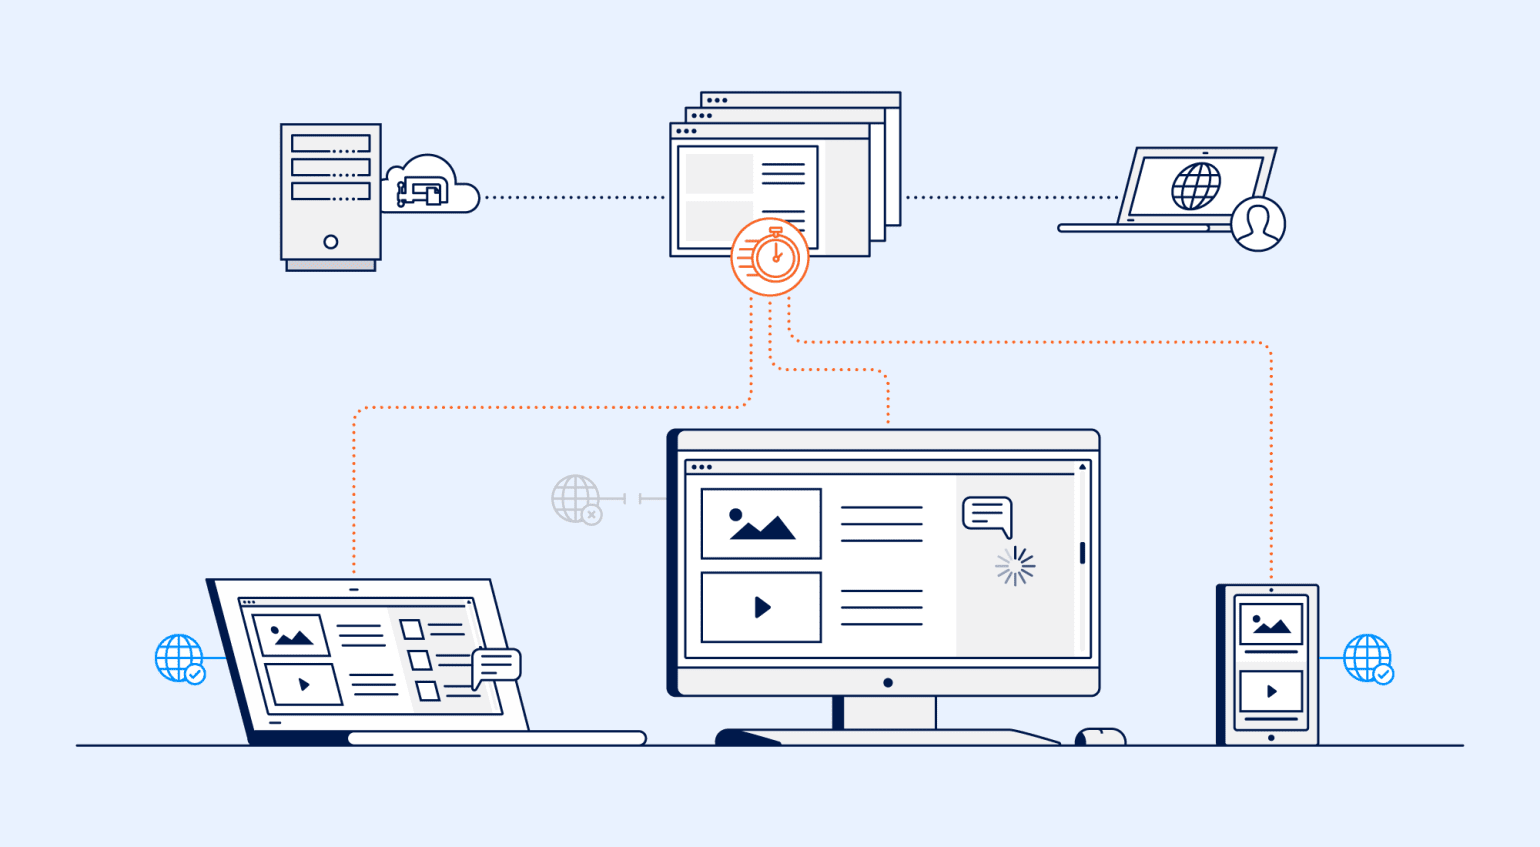
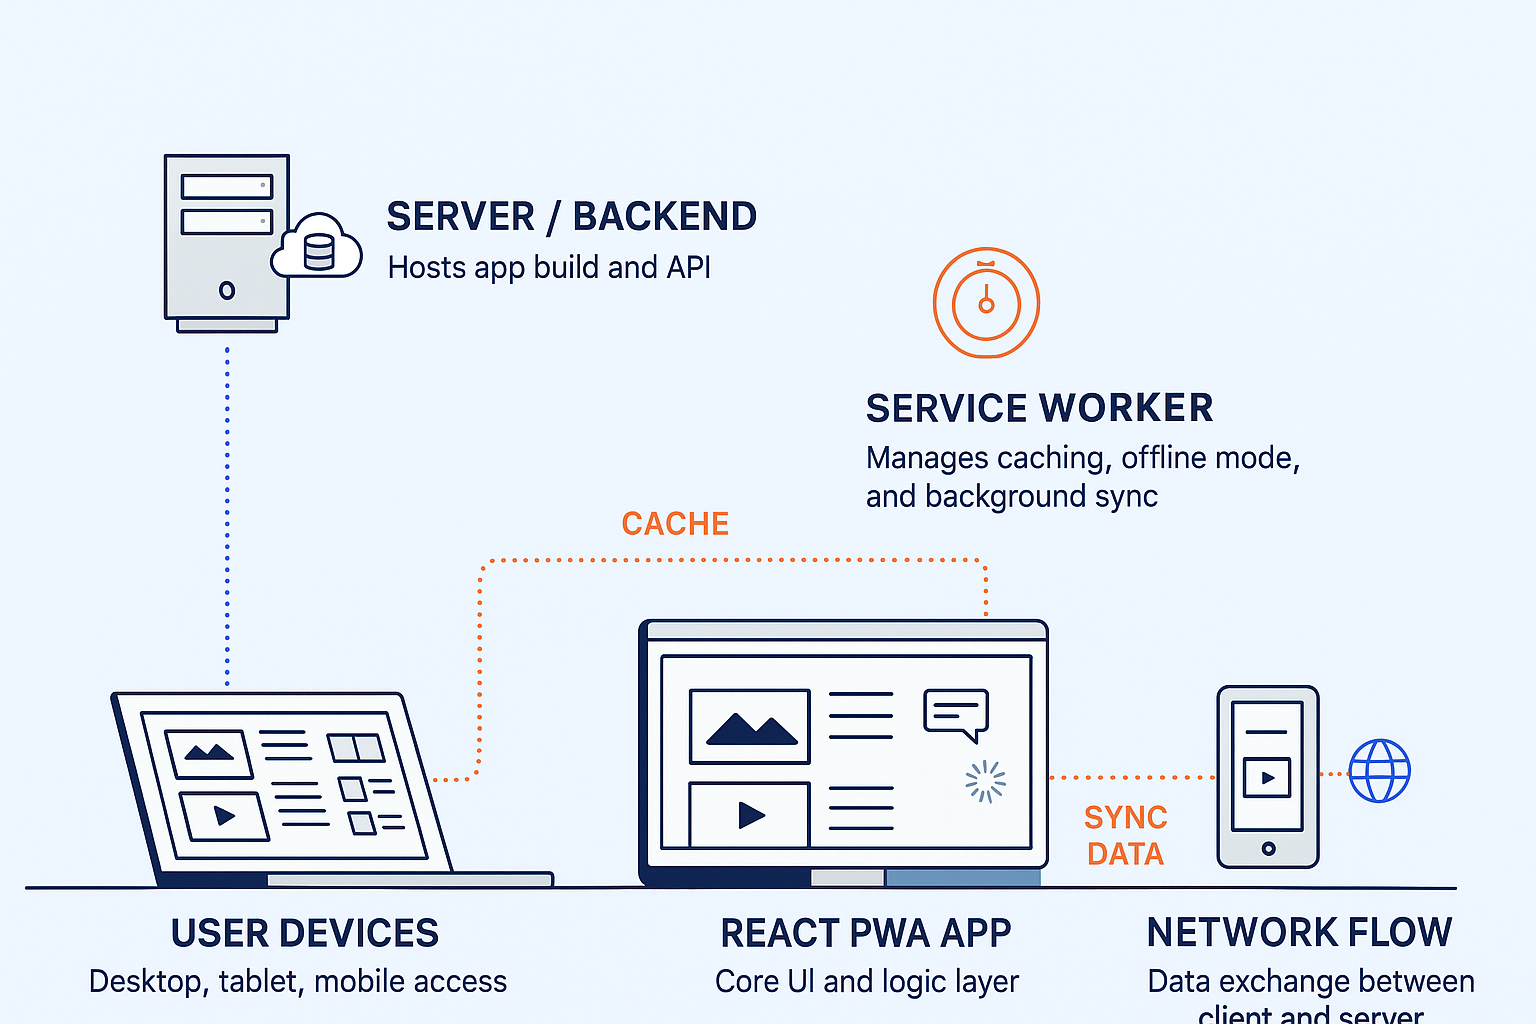
added cam module

Changed region(s): [[0.0312, 0.0921, 0.9688, 1.0]]

diff --git a/my-pwa-app/src/components/CameraCapture.tsx b/my-pwa-app/src/components/CameraCapture.tsx
@@ -1,0 +1,161 @@
+import React, { useRef, useState } from "react";
+import { Capacitor } from "@capacitor/core";
+import { Camera, CameraResultType } from "@capacitor/camera";
+import { openDB } from "idb";
+
+const CameraCapture: React.FC = () => {
+  const [isOpen, setIsOpen] = useState(false);
+  const [imageUrl, setImageUrl] = useState<string | null>(null);
+  const [isNative, setIsNative] = useState(Capacitor.getPlatform() !== "web");
+  const videoRef = useRef<HTMLVideoElement>(null);
+  const canvasRef = useRef<HTMLCanvasElement>(null);
+
+  // Initialize IndexedDB
+  const initDB = async () => {
+    return openDB("camera-db", 1, {
+      upgrade(db) {
+        if (!db.objectStoreNames.contains("images")) {
+          db.createObjectStore("images", { keyPath: "id", autoIncrement: true });
+        }
+      },
+    });
+  };
+
+  // Save to IndexedDB
+  const saveToDB = async (blob: Blob) => {
+    const db = await initDB();
+    const tx = db.transaction("images", "readwrite");
+    await tx.store.add({ blob, date: new Date() });
+    await tx.done;
+    console.log("✅ Image stored in IndexedDB");
+  };
+
+  // Start camera (web only)
+  const startCamera = async () => {
+    if (isNative) return;
+    try {
+      const stream = await navigator.mediaDevices.getUserMedia({ video: true });
+      if (videoRef.current) videoRef.current.srcObject = stream;
+    } catch (err) {
+      console.error("Camera error:", err);
+    }
+  };
+
+  // Stop camera stream (web)
+  const stopCamera = () => {
+    if (videoRef.current && videoRef.current.srcObject) {
+      const stream = videoRef.current.srcObject as MediaStream;
+      stream.getTracks().forEach((t) => t.stop());
+      videoRef.current.srcObject = null;
+    }
+  };
+
+  // Open popup and start camera
+  const openCameraPopup = async () => {
+    setIsOpen(true);
+    if (!isNative) {
+      await startCamera();
+    } else {
+      await openNativeCamera();
+    }
+  };
+
+  // Capture image from web camera
+  const capturePhoto = async () => {
+    const video = videoRef.current;
+    const canvas = canvasRef.current;
+    if (!video || !canvas) return;
+
+    const ctx = canvas.getContext("2d");
+    if (!ctx) return;
+
+    canvas.width = video.videoWidth;
+    canvas.height = video.videoHeight;
+    ctx.drawImage(video, 0, 0, canvas.width, canvas.height);
+
+    canvas.toBlob(async (blob) => {
+      if (blob) {
+        await saveToDB(blob);
+        const url = URL.createObjectURL(blob);
+        setImageUrl(url);
+        closePopup();
+      }
+    }, "image/jpeg");
+  };
+
+  // Native (Capacitor) capture
+  const openNativeCamera = async () => {
+    try {
+      const photo = await Camera.getPhoto({
+        resultType: CameraResultType.Uri,
+        quality: 90,
+      });
+      if (photo.webPath) {
+        const response = await fetch(photo.webPath);
+        const blob = await response.blob();
+        await saveToDB(blob);
+        setImageUrl(photo.webPath);
+      }
+    } catch (err) {
+      console.error("Native camera error:", err);
+    }
+  };
+
+  // Close popup
+  const closePopup = () => {
+    setIsOpen(false);
+    stopCamera();
+  };
+
+  return (
+    <div className="flex flex-col items-center justify-center p-6 space-y-4">
+      <h1 className="text-2xl font-bold text-green-600">📸 Capture Image</h1>
+
+      <button
+        onClick={openCameraPopup}
+        className="bg-green-500 text-white px-5 py-2 rounded-lg hover:bg-green-600 transition-all"
+      >
+        Open Camera
+      </button>
+
+      {imageUrl && (
+        <div className="mt-4">
+          <h3 className="font-semibold text-gray-700 mb-2">Last Captured Image:</h3>
+          <img src={imageUrl} alt="Captured" className="rounded-lg shadow-lg w-64" />
+        </div>
+      )}
+
+      {/* Popup Modal */}
+      {isOpen && !isNative && (
+        <div className="fixed inset-0 bg-black/60 flex items-center justify-center z-50">
+          <div className="bg-white rounded-xl p-4 flex flex-col items-center gap-3 shadow-lg">
+            <video
+              ref={videoRef}
+              autoPlay
+              playsInline
+              className="rounded-lg w-64 h-48 bg-black"
+            ></video>
+            <canvas ref={canvasRef} style={{ display: "none" }}></canvas>
+
+            <div className="flex gap-2 mt-2">
+              <button
+                onClick={capturePhoto}
+                className="bg-green-500 text-white px-4 py-2 rounded-lg hover:bg-green-600"
+              >
+                Capture
+              </button>
+              <button
+                onClick={closePopup}
+                className="bg-gray-400 text-white px-4 py-2 rounded-lg hover:bg-gray-500"
+              >
+                Close
+              </button>
+            </div>
+          </div>
+        </div>
+      )}
+    </div>
+  );
+};
+
+export default CameraCapture;
